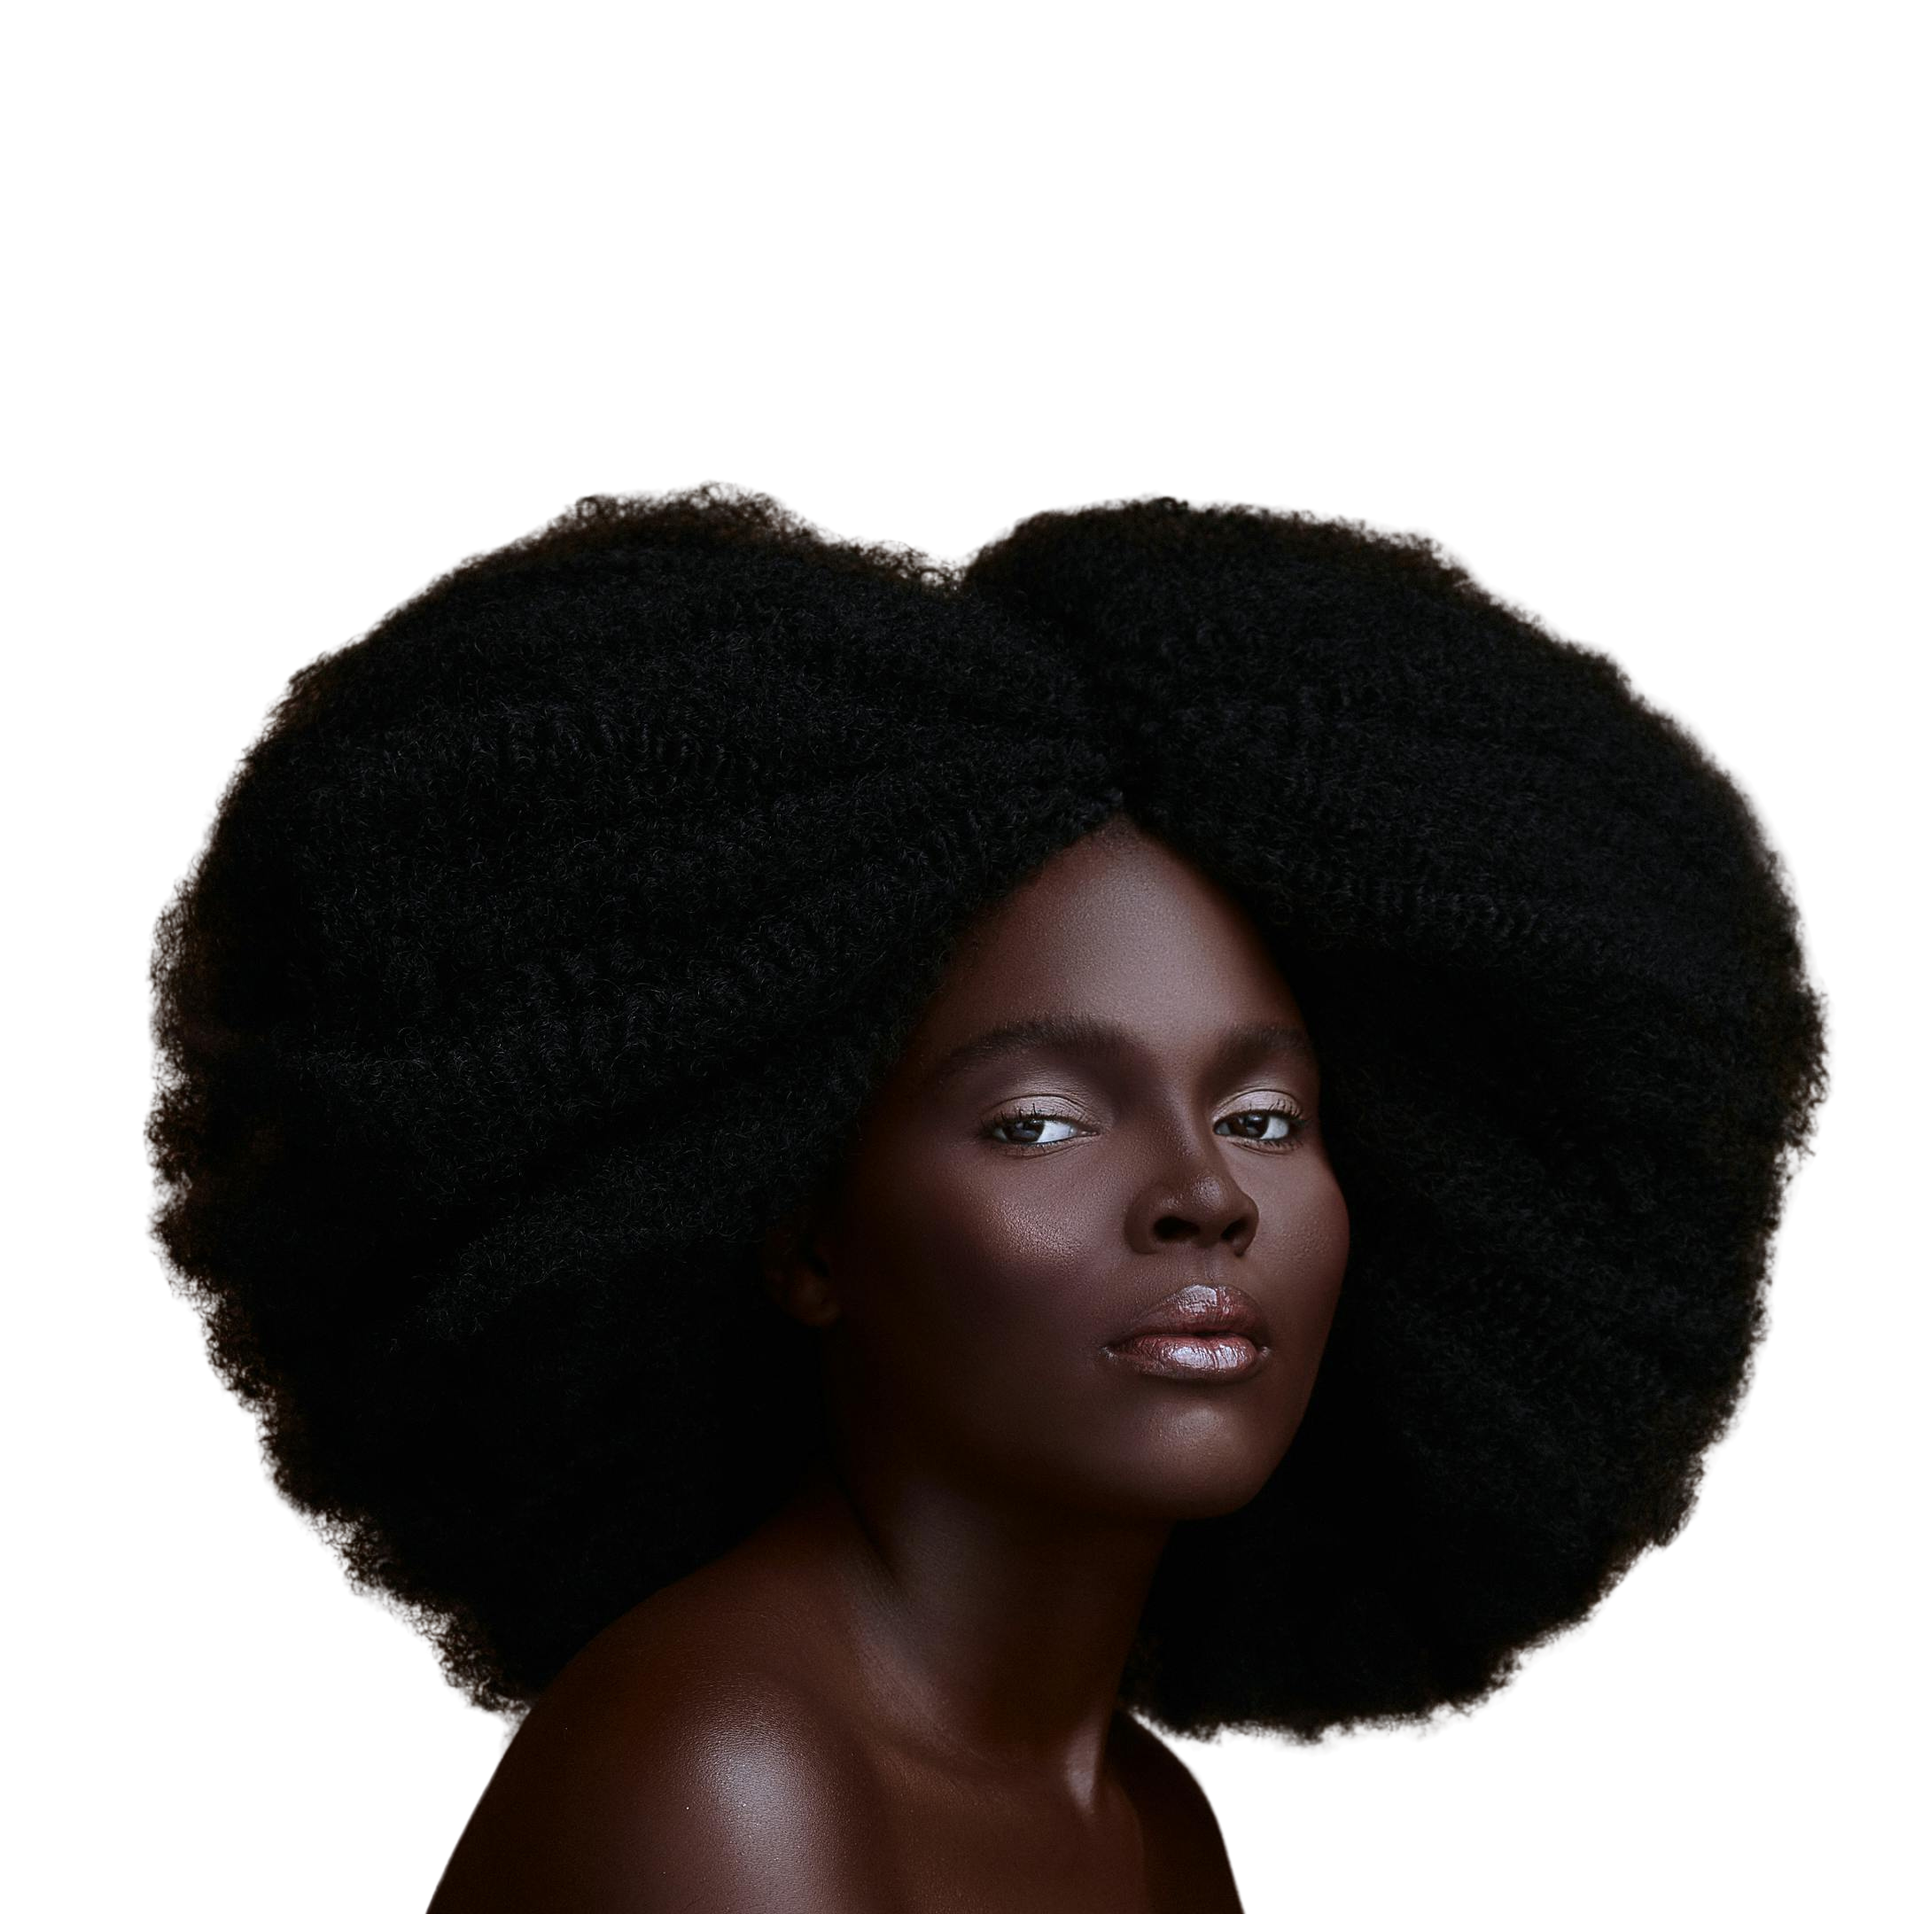
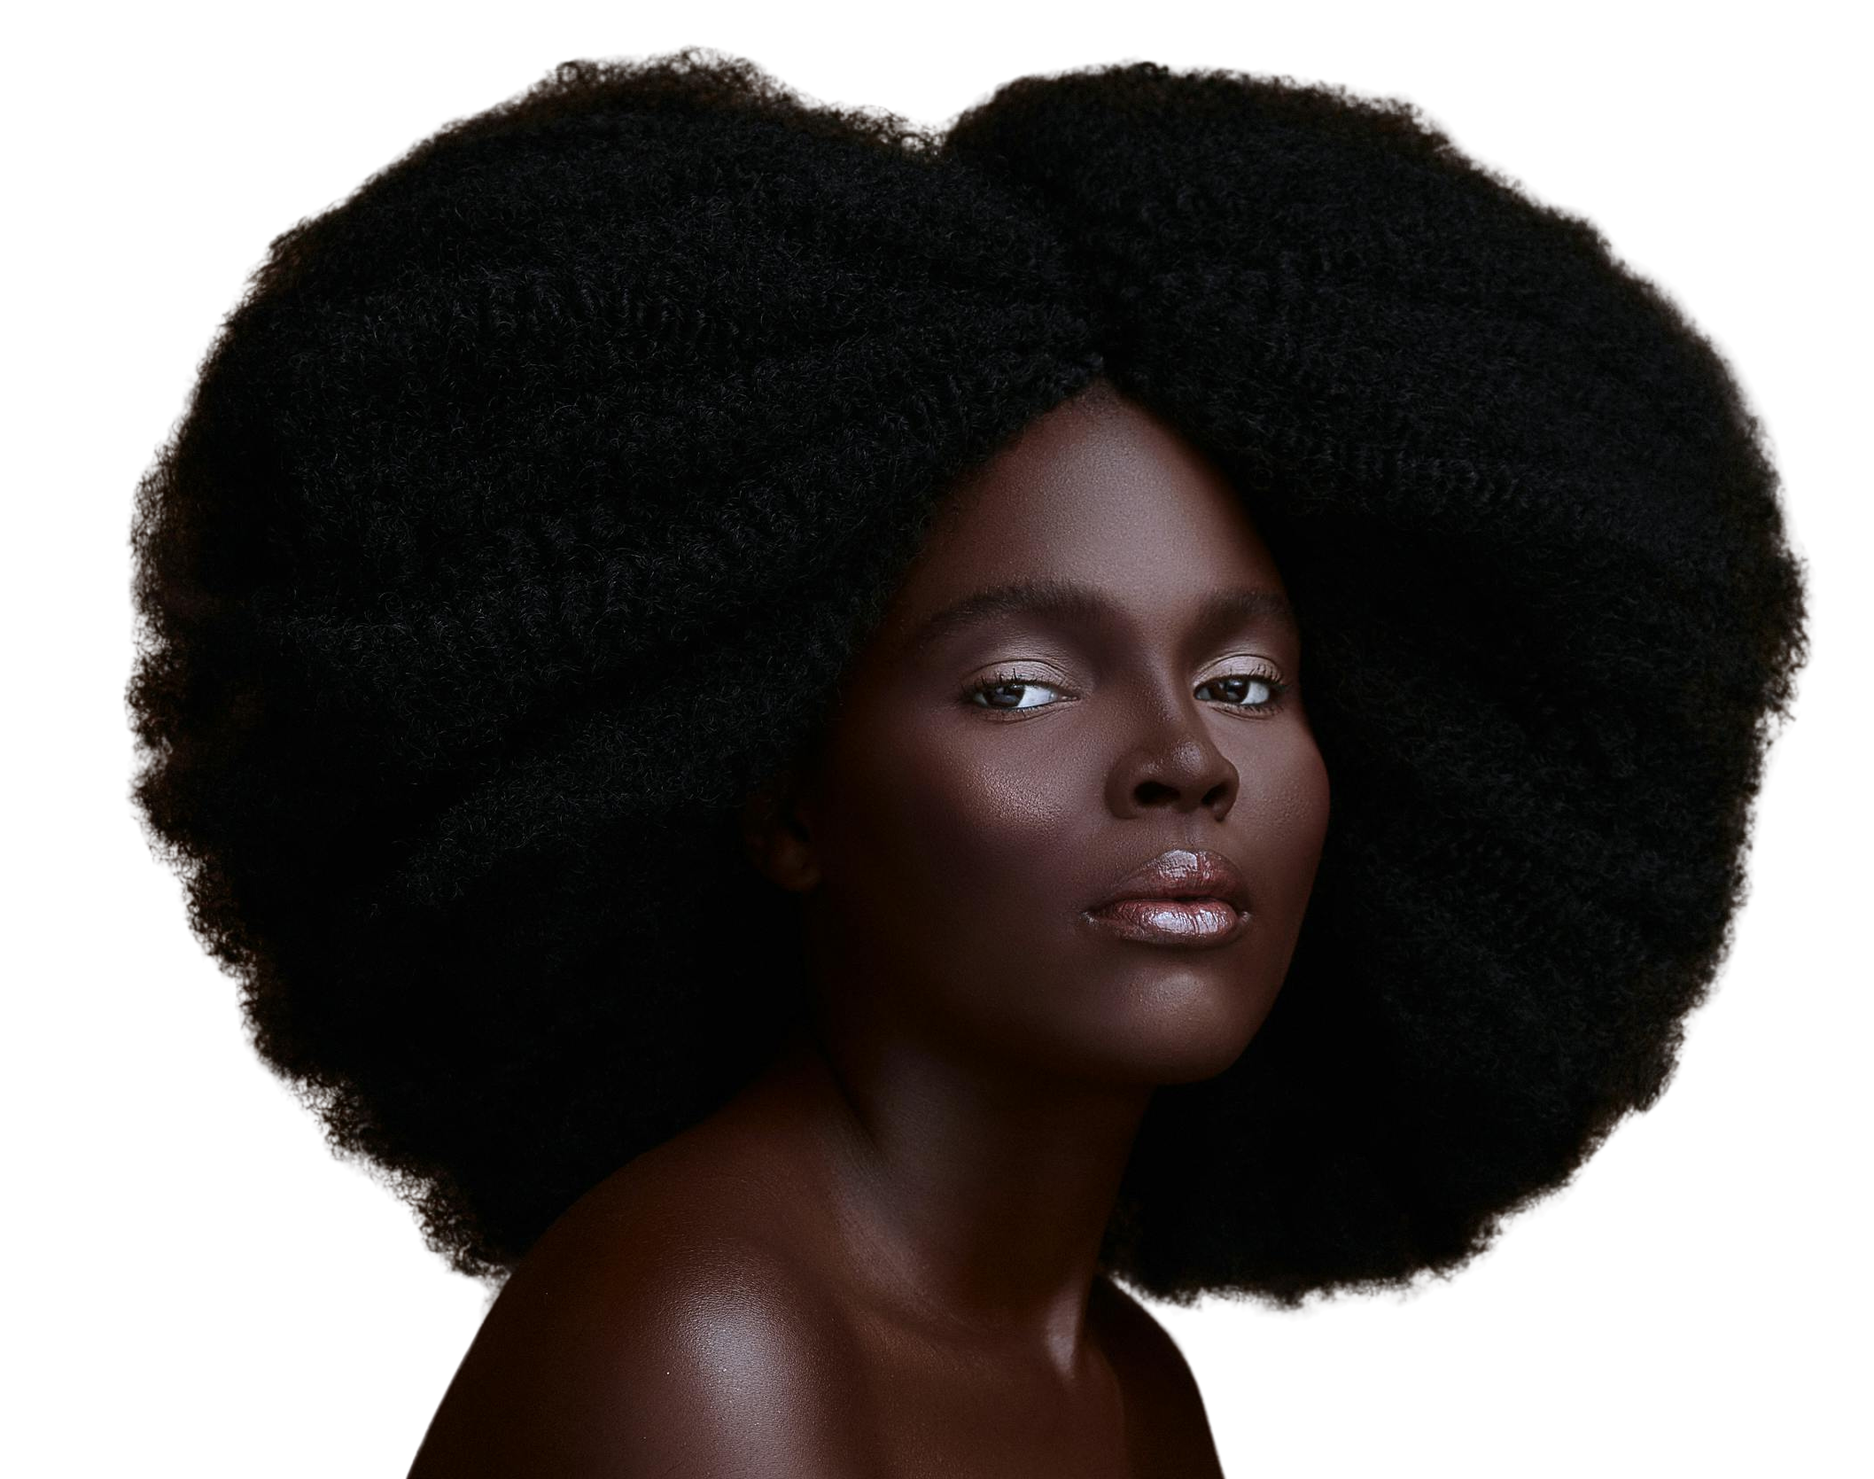
new afro img and media for title text

diff --git a/index.html b/index.html
@@ -27,33 +27,222 @@
     <link rel="preconnect" href="https://fonts.gstatic.com" crossorigin>
     <link href="https://fonts.googleapis.com/css2?family=Belleza&family=Montserrat:wght@400;500&family=Urbanist:wght@100;400&display=swap" rel="stylesheet">
     <link href="https://fonts.googleapis.com/css2?family=Tulpen+One&display=swap" rel="stylesheet">
+    <!-- <link href="https://fonts.googleapis.com/css2?family=Poppins:ital,wght@0,100;0,200;0,300;0,400;0,500;0,600;0,700;0,800;0,900;1,100;1,200;1,300;1,400;1,500;1,600;1,700;1,800;1,900&display=swap" rel="stylesheet"> -->
+    <link href="https://fonts.googleapis.com/css2?family=Great+Vibes&family=Poppins:ital,wght@0,100;0,200;0,300;0,400;0,500;0,600;0,700;0,800;0,900;1,100;1,200;1,300;1,400;1,500;1,600;1,700;1,800;1,900&display=swap" rel="stylesheet">
+
+    
+    <!-- -------------- AOS Library ----------- -->
+    <link href="https://unpkg.com/aos@2.3.1/dist/aos.css" rel="stylesheet">
 
     <style>
+        .great-vibes-regular {
+  font-family: "Great Vibes", cursive;
+  font-weight: 400;
+  font-style: normal;
+}
+
     .tulpen-one-regular {
         font-family: "Tulpen One", sans-serif;
         font-weight: 400;
         font-style: normal;
-        font-size:20vh;
-        color: white;
+
     }
+    .poppins-thin {
+  font-family: "Poppins", sans-serif;
+  font-weight: 100;
+  font-style: normal;
+}
+
+.poppins-extralight {
+  font-family: "Poppins", sans-serif;
+  font-weight: 200;
+  font-style: normal;
+}
+
+.poppins-light {
+  font-family: "Poppins", sans-serif;
+  font-weight: 300;
+  font-style: normal;
+}
+
+.poppins-regular {
+  font-family: "Poppins", sans-serif;
+  font-weight: 400;
+  font-style: normal;
+}
+
+.poppins-medium {
+  font-family: "Poppins", sans-serif;
+  font-weight: 500;
+  font-style: normal;
+}
+
+.poppins-semibold {
+  font-family: "Poppins", sans-serif;
+  font-weight: 600;
+  font-style: normal;
+}
+
+.poppins-bold {
+  font-family: "Poppins", sans-serif;
+  font-weight: 700;
+  font-style: normal;
+}
+
+.poppins-extrabold {
+  font-family: "Poppins", sans-serif;
+  font-weight: 800;
+  font-style: normal;
+}
+
+.poppins-black {
+  font-family: "Poppins", sans-serif;
+  font-weight: 900;
+  font-style: normal;
+}
+
+.poppins-thin-italic {
+  font-family: "Poppins", sans-serif;
+  font-weight: 100;
+  font-style: italic;
+}
+
+.poppins-extralight-italic {
+  font-family: "Poppins", sans-serif;
+  font-weight: 200;
+  font-style: italic;
+}
+
+.poppins-light-italic {
+  font-family: "Poppins", sans-serif;
+  font-weight: 300;
+  font-style: italic;
+}
+
+.poppins-regular-italic {
+  font-family: "Poppins", sans-serif;
+  font-weight: 400;
+  font-style: italic;
+}
+
+.poppins-medium-italic {
+  font-family: "Poppins", sans-serif;
+  font-weight: 500;
+  font-style: italic;
+}
+
+.poppins-semibold-italic {
+  font-family: "Poppins", sans-serif;
+  font-weight: 600;
+  font-style: italic;
+}
+
+.poppins-bold-italic {
+  font-family: "Poppins", sans-serif;
+  font-weight: 700;
+  font-style: italic;
+}
+
+.poppins-extrabold-italic {
+  font-family: "Poppins", sans-serif;
+  font-weight: 800;
+  font-style: italic;
+}
+
+.poppins-black-italic {
+  font-family: "Poppins", sans-serif;
+  font-weight: 900;
+  font-style: italic;
+}
+
     .hero_title {
         position: relative; 
+        font-size:20vh;
+        color: white;
         z-index: 2; 
-        transform: translateY(180px);
+        text-shadow: 6px 5px 2px gray;
     }
 
-    @media screen and (min-width: 768px) {
-        .tulpen-one-regular {
-            /* font-size: 200px; */
-            font-size: 34vh;
-        }
+    @media screen and (min-width: 1229px) {
         .hero_title {
-            transform: translateY(210px);
+            /* font-size: 200px; */
+            font-size: 24vh;
+            /* transform: translateY(52%); */
+            position: absolute; left: 10%; top: 17%;
+            
+        }
+    }
+
+    @media screen and (min-width: 1037px) and (max-width: 1228px) {
+        .hero_title {
+            /* font-size: 200px; */
+            font-size: 20vh;
+            /* transform: translateY(52%); */
+            position: absolute; 
+            left: 10%; 
+            top: 20%;
+        }
+    }
+
+    @media screen and (min-width: 992px) and (max-width: 1036px) {
+        .hero_title {
+            /* font-size: 200px; */
+            font-size: 18vh;
+            /* transform: translateY(52%); */
+            position: absolute; 
+            left: 10%; 
+            top: 20%;
+        }
+    }
+
+    @media screen and (min-width: 877px) and (max-width: 991px) {
+        .hero_title {
+            /* font-size: 200px; */
+            font-size: 16vh;
+            /* transform: translateY(52%); */
+            position: absolute; 
+            left: 10%; 
+            top: 20%;
+        }
+    }
+
+    @media screen and (min-width: 765px) and (max-width: 876px) {
+        .hero_title {
+            /* font-size: 200px; */
+            font-size: 14vh;
+            /* transform: translateY(52%); */
+            position: absolute; 
+            left: 10%; 
+            top: 20%;
+        }
+    }
+
+    @media screen and (min-width: 683px) and (max-width: 764px) {
+        .hero_title {
+            /* font-size: 200px; */
+            font-size: 10vh;
+            /* transform: translateY(52%); */
+            position: absolute; 
+            left: 10%; 
+            top: 20%;
+        }
+    }
+
+    @media screen and (max-width: 764px) {
+        .hero_title {
+            /* font-size: 200px; */
+            font-size: 12vh;
+            /* transform: translateY(52%); */
+            position: absolute; 
+            left: 10%; 
+            top: 20%;
         }
     }
 
     .hero_img {
-        height: 507px; 
+        /* height: 507px;  */
+        /* height: 100vh; */
+        height: 100vh;
         position: relative; 
         z-index: 3; 
         opacity: 0.94;
@@ -103,24 +292,18 @@
                 </div>
               </nav>
 
+            
+                <h1 class="text-center poppins-regular hero_title" data-aos="fade-down" data-aos-duration="1500">BEAUTY ROYALE</h1>
+            </div>
 
-
-            <!-- <div class="d-flex row justify-content-center align-items-end flex-column color-white h-100 ">
-                <div class="col-lg-6 col-12 d-flex justify-content-center flex-column transform-x50 ps-md-3 ps-4 w-70">
-                    <h1 class="urban-font fw-bold title-size pe-lg-5">Relax & Let Your Hair Flow</h1>
-                    <p class="mont-font pe-lg-5 pt-3 pb-3 text-wrap">Looking for a Natural hair salon that makes your dream 'do come true? 
-                    Beauty Royale invites you to pick up a game, relax, and let our Gurus work their magic!</p>
-                    <a href="#services" class="noLink">
-                        <button type="button" class="btn btn-secondary w-50 rounded-3 mont-font">View Services</button>
-                    </a>
-                </div>
-            </div> -->
-            <div class="container mx-auto">
-                <h1 class="text-center tulpen-one-regular hero_title">BEAUTY ROYALE</h1>
-                <img src="./images/afro-hero_no-bg.png" alt="" class="img-fluid mx-auto d-flex align-self-center hero_img">
+            <div class="container mx-auto"> 
+                <img src="./images/afro-hero_no-bg 1.png" alt="" class="img-fluid mx-auto d-flex align-self-center hero_img" draggable="false">
             </div>
             
         </section>
+        <p class="great-vibes-regular text-center" style="margin-bottom: 0; position: relative; z-index: 4; transform: translateY(-10vh); color: white;    line-height: 1;
+        letter-spacing: 10px;
+        font-size: 1.5rem;" data-aos="fade-down" data-aos-duration="1500">where beauty meets gaming</p>
         
         <section class="mt-5 mb-5">
             <article>
@@ -134,11 +317,11 @@
                         <p class="mont-font">We take great measures to ensure our clients walk out with a smile--happy and satisfied.</p>
                     </div>
                     <div class="col-lg-8 col-12 d-flex pt-md-5 flex-row">
-                        <div class="col-lg-6 pt-lg-5 d-flex justify-content-center align-items-center flex-column">
+                        <div class="col-lg-6 pt-lg-5 d-flex justify-content-center align-items-center flex-column" data-aos="fade-up" data-aos-duration="1500">
                             <img src="./images/pexels-photo-1126727.jpeg" alt="Photo by Jennifer Enujiugha on Pexels.com" class="img-fluid mt-lg-5 w-75">
                             <p class="fw-light img-credit pt-1 text-center">Credit: Jennifer Enujiugha (Pexels)</p>
                         </div>
-                        <div class="col-lg-6 pe-lg-4 d-flex justify-content-start align-items-center flex-column">
+                        <div class="col-lg-6 pe-lg-4 d-flex justify-content-start align-items-center flex-column" data-aos="fade-down" data-aos-duration="1500">
                             <img src="./images/pexels-photo-6759836.jpeg" alt="Photo by Jennifer Enujiugha on Pexels.com" class="img-fluid w-75">
                             <p class="fw-light img-credit pt-1 text-center">Credit: Thuanny Gantuss (Pexels)</p>
                         </div>
@@ -376,6 +559,11 @@
             <p class="d-flex justify-content-end align-items-end author-text pe-3">All Rights Reserved |&nbsp;<a href="https://taystan.dev/" class="author">Taystan</a>&nbsp;&copy;</p>
         </footer>
     </main>
+<!-- ----------- AOS Library ---------------- -->
+<script src="https://unpkg.com/aos@2.3.1/dist/aos.js"></script>
+<script>
+  AOS.init();
+</script>
 
 <!-- Bootstrap JS Bundle-->
 <script src="https://cdn.jsdelivr.net/npm/bootstrap@5.0.2/dist/js/bootstrap.bundle.min.js" integrity="sha384-MrcW6ZMFYlzcLA8Nl+NtUVF0sA7MsXsP1UyJoMp4YLEuNSfAP+JcXn/tWtIaxVXM" crossorigin="anonymous"></script>
@@ -435,3 +623,14 @@
 </script>
 </body>
 </html>
+<!-- LINE 219 Hero -->
+             <!-- <div class="d-flex row justify-content-center align-items-end flex-column color-white h-100 ">
+                <div class="col-lg-6 col-12 d-flex justify-content-center flex-column transform-x50 ps-md-3 ps-4 w-70">
+                    <h1 class="urban-font fw-bold title-size pe-lg-5">Relax & Let Your Hair Flow</h1>
+                    <p class="mont-font pe-lg-5 pt-3 pb-3 text-wrap">Looking for a Natural hair salon that makes your dream 'do come true? 
+                    Beauty Royale invites you to pick up a game, relax, and let our Gurus work their magic!</p>
+                    <a href="#services" class="noLink">
+                        <button type="button" class="btn btn-secondary w-50 rounded-3 mont-font">View Services</button>
+                    </a>
+                </div>
+            </div> -->
